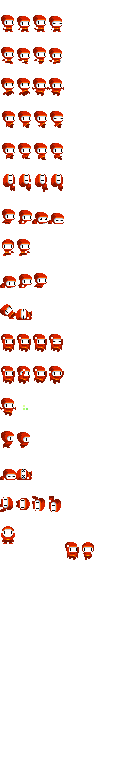
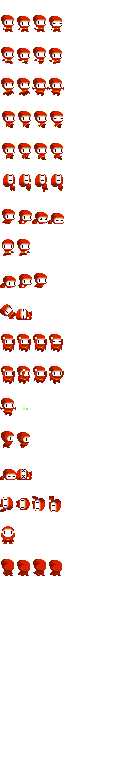
transitions

Changed region(s): [[0.0, 0.7188, 0.5, 0.75], [0.5, 0.6875, 0.75, 0.75]]

diff --git a/Platformer/Objects/Main/RoomCamera.cs b/Platformer/Objects/Main/RoomCamera.cs
@@ -1,6 +1,8 @@
 using Microsoft.Xna.Framework;
 using Microsoft.Xna.Framework.Graphics;
 using Platformer.Objects;
+using Platformer.Objects.Effects;
+using Platformer.Objects.Effects.Emitters;
 using Platformer.Objects.Enemy;
 using Platformer.Objects.Main;
 using SPG;
@@ -40,10 +42,7 @@ namespace Platformer.Main
         private float curX, curY;
         private float tx, ty;
         private float dyVel;
-
-        private bool invokeRoomChange;
-        private Vector2 positionChange;
-
+        
         // player-related vars
 
         private float offsetX = 0;
@@ -54,6 +53,15 @@ namespace Platformer.Main
         private TextureSet _backgrounds;
         private float backgroundAlpha = 1f;        
         private int lastBG = 0;
+
+        // transition
+        
+        private Vector2 newPosition;
+        private bool invokeRoomChange;
+
+        // target
+
+        private Player player { get => target as Player; }
 
         // events
 
@@ -75,15 +83,34 @@ namespace Platformer.Main
             Position = target != null ? target.Position : Vector2.Zero;
         }
         
+        private void Transition_1()
+        {
+            player.State = Player.PlayerState.IDLE;
+            player.Position = newPosition;
+
+            tx = newPosition.X;
+            ty = newPosition.Y;
+            curX = newPosition.X;
+            curY = newPosition.Y;
+            invokeRoomChange = true;
+            GameManager.Current.Transition.FadeOut();
+
+            GameManager.Current.Transition.OnTransitionEnd = Transition_2;
+        }
+
+        private void Transition_2()
+        {
+            GameManager.Current.Transition.OnTransitionEnd = null;
+            GameManager.Current.Transition = null;
+        }
+
         public void ChangeRoomsFromPosition(Vector2 position)
         {
-            //curX, curY;
-            tx = position.X;
-            ty = position.Y;
-            curX = position.X;
-            curY = position.Y;
-            invokeRoomChange = true;
-            positionChange = position;
+            player.State = Player.PlayerState.DOOR;
+            GameManager.Current.Transition = new Transition();
+            GameManager.Current.Transition.FadeIn();
+            newPosition = position;
+            GameManager.Current.Transition.OnTransitionEnd = Transition_1;
         }
 
         public override void Update(GameTime gt)
@@ -105,7 +132,7 @@ namespace Platformer.Main
                 if (CurrentRoom != targetRoom)
                     GameManager.Current.ChangeRoom(CurrentRoom, targetRoom);
 
-                Position = positionChange;
+                Position = newPosition;
                 CurrentRoom = null;
                 state = State.Default;
                 invokeRoomChange = false;
@@ -213,7 +240,7 @@ namespace Platformer.Main
             CurrentRoom = null;
             lastRoom = null;
         }
-
+        
         /// <summary>
         /// Loads the backgrounds to the camera so it can display them depending on the room background number.
         /// </summary>
@@ -223,7 +250,7 @@ namespace Platformer.Main
             _backgrounds = backgrounds;
         }
 
-        public void DrawBackground(SpriteBatch sb, GameTime gameTime)
+        public void Draw(SpriteBatch sb, GameTime gameTime)
         {
             if (_backgrounds != null)
             {

diff --git a/Platformer/Objects/Main/Player.cs b/Platformer/Objects/Main/Player.cs
@@ -67,7 +67,8 @@ namespace Platformer.Objects.Main
             WALL_CLIMB, OBTAIN, TURN_AROUND,
             GET_UP, HIT_AIR, HIT_GROUND, CEIL_IDLE,
             CEIL_CLIMB, SWIM, DEAD, LEVITATE,
-            PUSH, LIE, SWIM_DIVE_IN, SWIM_TURN_AROUND
+            PUSH, LIE, SWIM_DIVE_IN, SWIM_TURN_AROUND,
+            DOOR
         }
 
         public PlayerState State { get; set; }
@@ -218,7 +219,7 @@ namespace Platformer.Objects.Main
 
             // ++++ input ++++
 
-            if (ObjectManager.Exists<MessageBox>())
+            if (ObjectManager.Exists<MessageBox>() || GameManager.Current.Transition != null)
             {
                 input.Enabled = false;
             } else
@@ -442,8 +443,9 @@ namespace Platformer.Objects.Main
                 {
                     if (k_upPressed)
                     {
-                        Move(door.Tx * Globals.TILE, door.Ty * Globals.TILE);
-                        RoomCamera.Current.ChangeRoomsFromPosition(Position);
+                        var pos = Position + new Vector2(door.Tx * Globals.TILE, door.Ty * Globals.TILE);
+                        RoomCamera.Current.ChangeRoomsFromPosition(pos);
+
                     }
                 }
             }
@@ -1001,7 +1003,12 @@ namespace Platformer.Objects.Main
             if (State == PlayerState.OBTAIN)
             {
                 XVel *= .9f;
-                //YVel = Math.Min(YVel + .1f, .2f);
+            }
+            // entering doors
+            if (State == PlayerState.DOOR)
+            {
+                XVel = 0;
+                YVel = -Gravity;
             }
 
             var saveStatue = this.CollisionBounds<SaveStatue>(X, Y).FirstOrDefault();
@@ -1130,7 +1137,7 @@ namespace Platformer.Objects.Main
 
             switch (State)
             {
-                case PlayerState.IDLE:                    
+                case PlayerState.IDLE:
                     row = 0;
                     fSpd = 0.03f;
                     fAmount = 4;
@@ -1231,6 +1238,11 @@ namespace Platformer.Objects.Main
                     row = 16;
                     fAmount = 1;
                     fSpd = 0;                    
+                    break;
+                case PlayerState.DOOR:
+                    row = 17;
+                    fSpd = 0.05f;
+                    fAmount = 4;
                     break;
             }
 

diff --git a/Platformer/Objects/Effects/Transition.cs b/Platformer/Objects/Effects/Transition.cs
@@ -1,0 +1,74 @@
+using Microsoft.Xna.Framework;
+using Microsoft.Xna.Framework.Graphics;
+using Platformer.Main;
+using Platformer.Objects.Main;
+using System;
+using System.Collections.Generic;
+using System.Linq;
+using System.Text;
+using System.Threading.Tasks;
+
+namespace Platformer.Objects.Effects
+{
+    public class Transition
+    {
+        private enum Fade
+        {
+            NONE = 0, IN = 1, OUT = -1
+        }
+        
+        public delegate void TransitionEnd();
+        public TransitionEnd OnTransitionEnd;
+
+        private Texture2D dark = AssetManager.DarknessSprite;
+        private double alpha = 0f;
+        private Fade fade;
+        private Color color = new Color(Color.White, 0);
+        private double vel = .03;
+
+        public Transition()
+        {
+
+        }
+
+        public void FadeIn()
+        {
+            alpha = 0;
+            fade = Fade.IN;
+        }
+        public void FadeOut()
+        {
+            alpha = 1.5;
+            fade = Fade.OUT;
+        }
+
+        public void Update(GameTime gameTime)
+        {
+            if (fade == Fade.IN) {
+                alpha = Math.Min(alpha + vel, 1);
+                if (alpha == 1)
+                {
+                    fade = Fade.NONE;
+                    OnTransitionEnd?.Invoke();
+                }
+            }
+
+            if (fade == Fade.OUT)
+            {
+                alpha = Math.Max(alpha - vel, 0);
+                if (alpha == 0)
+                {
+                    fade = Fade.NONE;
+                    OnTransitionEnd?.Invoke();
+                }
+            }
+
+            color = new Color(color, (float)alpha);
+        }
+
+        public void Draw(SpriteBatch sb, GameTime gameTime)
+        {
+            sb.Draw(dark, new Vector2(RoomCamera.Current.ViewX, RoomCamera.Current.ViewY), null, color, 0f, Vector2.Zero, Vector2.One, SpriteEffects.None, Globals.LAYER_UI - .001f);
+        }
+    }    
+}

diff --git a/Platformer/MainGame.cs b/Platformer/MainGame.cs
@@ -224,6 +224,10 @@ namespace Platformer
             // ++++ update HUD ++++
 
             HUD.Update(gameTime);
+
+            // ++++ update transition ++++
+
+            GameManager.Current.Transition?.Update(gameTime);
         }
         
         /// <summary>
@@ -237,22 +241,15 @@ namespace Platformer
             // IMPORTANT HINT: when a texture's alpha is not "pretty", check the Content settings of that texture! Make sure that the texture has premultiplied : true.
 
             spriteBatch.BeginCamera(RoomCamera.Current, BlendState.NonPremultiplied);
-            RoomCamera.Current.DrawBackground(spriteBatch, gameTime);
+            RoomCamera.Current.Draw(spriteBatch, gameTime);
 
             GameManager.Current.Map.Draw(spriteBatch, gameTime, RoomCamera.Current);
             ObjectManager.DrawObjects(spriteBatch, gameTime);
-
+            
             HUD.Draw(spriteBatch, gameTime);
 
-            /*if (initialized)
-            {
-                DefaultFont.Halign = Font.HorizontalAlignment.Center;
-                DefaultFont.Valign = Font.VerticalAlignment.Bottom;
-
-                DefaultFont.Draw(spriteBatch, Player.X, Player.Y - 1 * Globals.TILE, "HelloWorld\nWhat's up!\nTEST.", scale: 1f);
-                
-                //DefaultFont.Draw(camera.ViewX + 4, camera.ViewY + 4, Player.HP, 0);
-            }*/
+            GameManager.Current.Transition?.Draw(spriteBatch, gameTime);
+            
             spriteBatch.End();
         }
     }

diff --git a/Platformer/Objects/Main/GameManager.cs b/Platformer/Objects/Main/GameManager.cs
@@ -1,5 +1,6 @@
 using Microsoft.Xna.Framework;
 using Platformer.Main;
+using Platformer.Objects.Effects;
 using Platformer.Objects.Effects.Emitters;
 using Platformer.Objects.Enemy;
 using Platformer.Objects.Items;
@@ -31,6 +32,8 @@ namespace Platformer.Objects.Main
 
         public List<int> NonRespawnableIDs { get; private set; }
         
+        public Transition Transition { get; set; }
+
         private GlobalWaterBubbleEmitter globalWaterEmitter;
 
         public GameManager()
@@ -170,7 +173,13 @@ namespace Platformer.Objects.Main
             RoomCamera.Current.SetTarget(Player);
             MainGame.Current.HUD.SetTarget(Player);
 
-            NonRespawnableIDs = new List<int>();            
+            NonRespawnableIDs = new List<int>();
+
+            // fade-in
+
+            Transition = new Transition();
+            Transition.FadeOut();
+            Transition.OnTransitionEnd = () => { Transition = null; };
         }
 
         /// <summary>
@@ -210,6 +219,6 @@ namespace Platformer.Objects.Main
             {
                 ObjectManager.SetRegionEnabled<GameObject>(RoomCamera.Current.CurrentRoom.X, RoomCamera.Current.CurrentRoom.Y, RoomCamera.Current.CurrentRoom.BoundingBox.Width, RoomCamera.Current.CurrentRoom.BoundingBox.Height, true);
             }
-        }        
+        }
     }
 }

diff --git a/Platformer/Objects/Main/PlayerGhost.cs b/Platformer/Objects/Main/PlayerGhost.cs
@@ -45,6 +45,7 @@ namespace Platformer.Objects.Main
 
                 if (alpha == 0)
                 {
+                    //GameManager.Current.Transition
                     Parent = null;
                     Destroy();
                     GameManager.Current.ReloadLevel();
